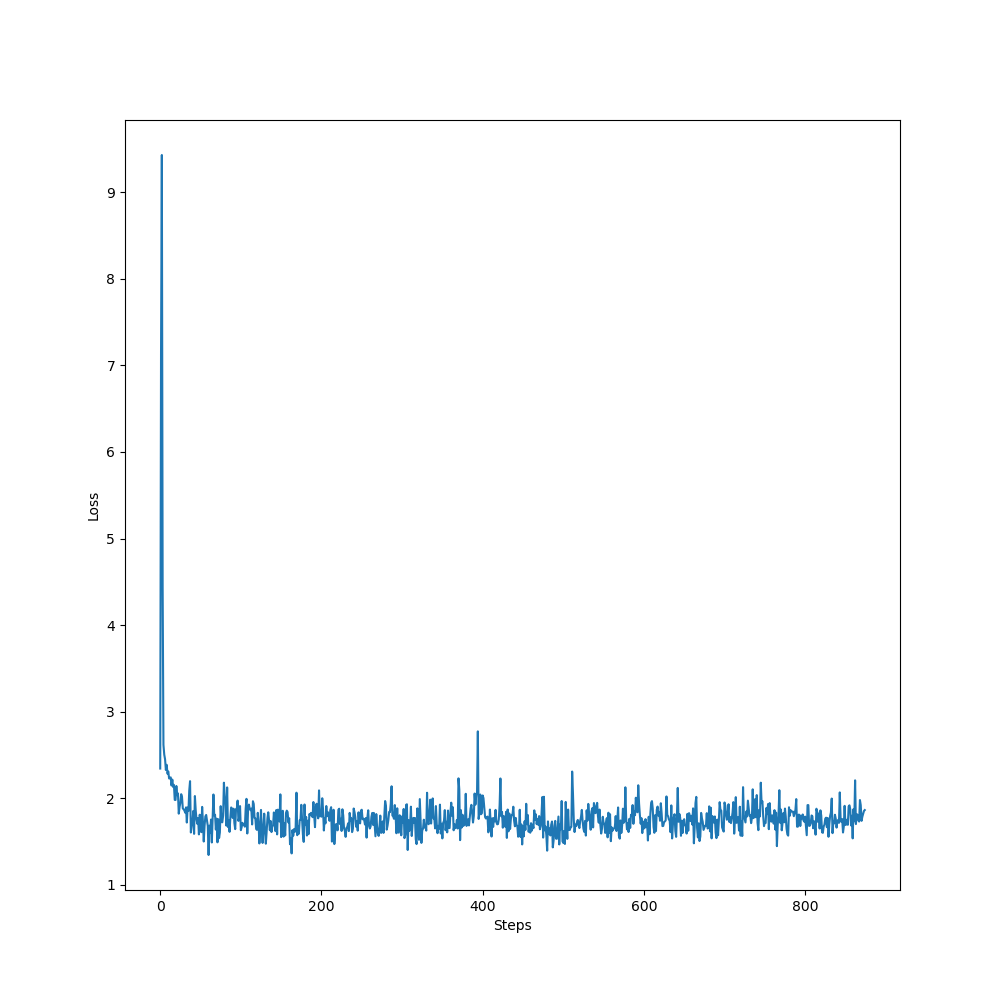
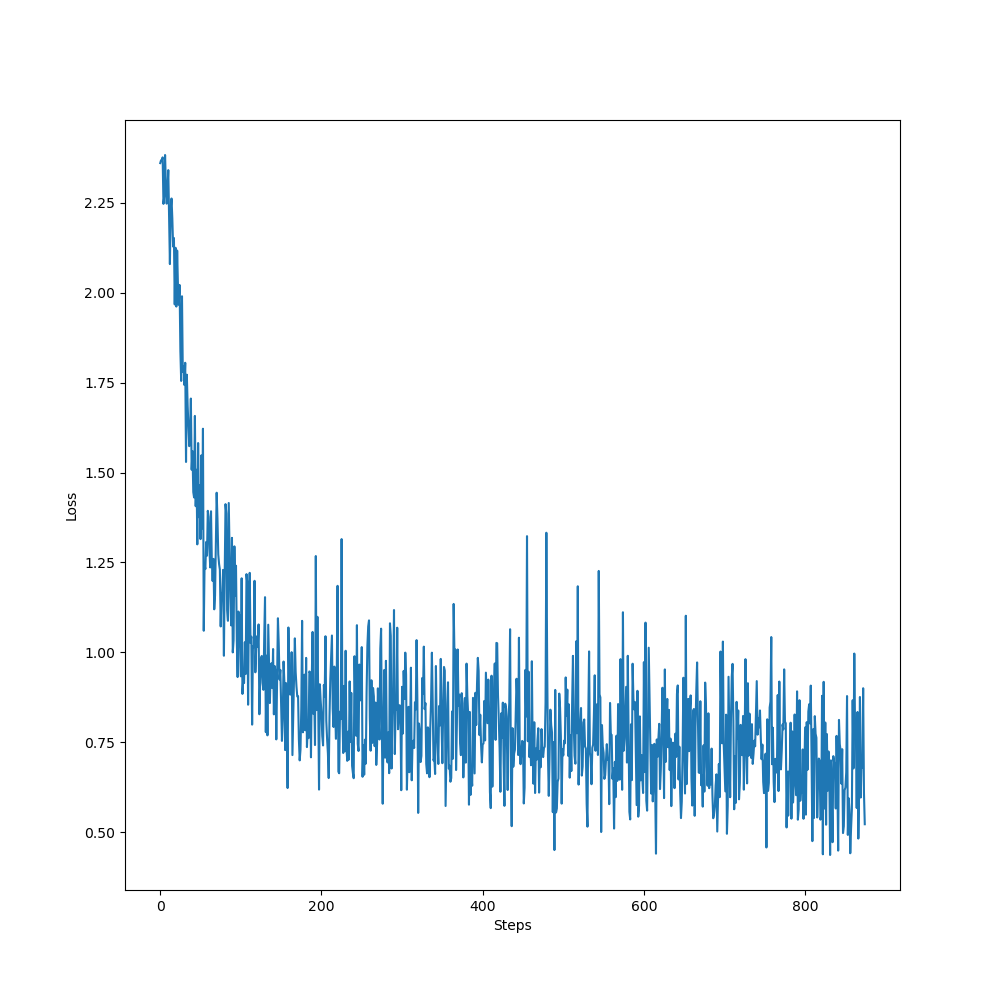
docker + configs

diff --git a/cookie/train_model.py b/cookie/train_model.py
@@ -1,11 +1,16 @@
+import logging
 import os
 
+import hydra
+from omegaconf import OmegaConf
 import matplotlib.pyplot as plt
 import torch
 from torch import nn, optim
 
-from data.data import get_dataloaders
+from data.get_data import get_dataloaders
 from models.model import Network, save_model
+
+log = logging.getLogger(__name__)
 
 
 def validation(model, testloader, criterion):
@@ -35,10 +40,34 @@ def validation(model, testloader, criterion):
     return test_loss, accuracy
 
 
-def train(model, trainloader, testloader, criterion, optimizer=None, epochs=5, print_every=40):
+# define hydra main entry point
+@hydra.main(config_path="../conf", config_name="config.yaml")
+def train(config):
     """Train model."""
-    if optimizer is None:
-        optimizer = torch.optim.Adam(model.parameters(), lr=1e-2)
+    # configureation
+    print(f"configuration: \n {OmegaConf.to_yaml(config)}")
+    #hparams = config.experiment
+    h_model = config.model
+    h_training = config.training
+    # model specific
+
+    model = Network(h_model.n_input, h_model.n_output, h_model.hidden_layers)
+
+    # training specific
+    print_every = h_training.print_every
+    seed = h_training.seed
+    torch.manual_seed(seed)
+    epochs = h_training.epochs
+    lr = h_training.lr
+
+    # initialize
+    criterion = nn.NLLLoss()
+    optimizer = optim.Adam(model.parameters(), lr=lr)
+
+    repo_path = os.getcwd().split("cookie")[0] + "cookie"
+    processed_data_path = repo_path + os.sep + h_training.dataset_path
+    trainloader, valloader = get_dataloaders(processed_data_path)
+    
     steps = 0
     running_loss = 0
     loss_list = []
@@ -68,13 +97,18 @@ def train(model, trainloader, testloader, criterion, optimizer=None, epochs=5, p
 
                 # Turn off gradients for validation, will speed up inference
                 with torch.no_grad():
-                    test_loss, accuracy = validation(model, testloader, criterion)
+                    test_loss, accuracy = validation(model, valloader, criterion)
 
-                print(
-                    "Epoch: {}/{}.. ".format(e + 1, epochs),
-                    "Training Loss: {:.3f}.. ".format(running_loss / print_every),
-                    "Test Loss: {:.3f}.. ".format(test_loss / len(testloader)),
-                    "Test Accuracy: {:.3f}".format(accuracy / len(testloader)),
+                #log.info(
+                #    "Epoch: {}/{}.. ".format(e + 1, epochs),
+                #    "Training Loss: {:.3f}.. ".format(running_loss / print_every),
+                #    "Test Loss: {:.3f}.. ".format(test_loss / len(valloader)),
+                #    "Test Accuracy: {:.3f}".format(accuracy / len(valloader)),
+                #)
+                log.info(
+                    "Epoch: {}/{}.. Training Loss: {:.3f}.. Test Loss: {:.3f}.. Test Accuracy: {:.3f}".format(
+                        e + 1, epochs, running_loss / print_every, test_loss / len(valloader), accuracy / len(valloader)
+                    )
                 )
 
                 running_loss = 0
@@ -90,18 +124,13 @@ def train(model, trainloader, testloader, criterion, optimizer=None, epochs=5, p
     plt.plot(loss_list)
     plt.xlabel("Steps")
     plt.ylabel("Loss")
-    plt.savefig(os.getcwd() + "/reports/figures/loss.png")
+    plt.savefig(repo_path + "/reports/figures/loss.png")
 
+
+    save_path = repo_path + "/models/trained_model.pth"
+    save_model(model, save_path)
 
 if __name__ == "__main__":
-    model = Network(784, 10, [512, 256, 128])
-    criterion = nn.NLLLoss()
-    optimizer = optim.Adam(model.parameters(), lr=0.001)
 
-    processed_data_path = os.getcwd() + os.sep + "data/processed/processed_data.pt"
-    trainloader, valloader = get_dataloaders(processed_data_path)
+    train()
 
-    train(model, trainloader, valloader, criterion, optimizer=None, epochs=1, print_every=40)
-
-    save_path = "models/trained_model.pth"
-    save_model(model, save_path)

diff --git a/README.md b/README.md
@@ -3,6 +3,10 @@
 testing cookie cutter.
 Template: https://github.com/SkafteNicki/mlops_template
 
+Reproducibility: the scientific method
+
+> Observe -> Question -> Hypotheses -> Experiment -> Conclude -> Result -> Observe -> ...
+
 
 ## Setup
 
@@ -138,7 +142,7 @@ started with Machine Learning Operations (MLOps).
 
 ---
 
-## My notes
+# My notes
 
 
 
@@ -162,19 +166,18 @@ To save the current environment into a YAML file, you can use the `conda env exp
 
 ### requirements.txt
 
-1. **Navigate to your project directory:**
+Exhaustive list based on environment:
 
-   Open a terminal or command prompt and navigate to the root directory of your Python project.
+`pip list --format=freeze > requirements.txt`
 
-**Run `pipreqs`:**
+*remove end string from torch and torchvision and torch==2.0.1*
 
-   Once you're in the project directory, run the following command:
 
-   ```bash
-   pipreqs .
-   ```
+or minimalistic list based on directory:
 
-   This command tells `pipreqs` to scan the current directory (`.`) for Python files and generate a `requirements.txt` file.
+`pip install pipreqs`
+
+*Compatibility check: https://pytorch.org/get-started/previous-versions/*
 
 
 ### Ruff
@@ -217,5 +220,54 @@ If you've tagged a release in both Git and DVC:
    ```bash
    dvc checkout -rev <tag_name>
    ```
+
+
+### Docker
+
+`--name {container_name}`
+
+#### Training
+
+
+Build image:
+```bash
+docker build -f dockerfiles/train_model.dockerfile . -t train_model:latest
+```
+
+Train:
+```bash
+docker run --name experiment1 \
+   -v $(pwd)/data/processed:/data/processed/ \
+   -v $(pwd)/models:/models/ \
+   train_model:latest
+```
+
+Transfer files from container to local:
+```bash
+docker cp experiment1:/models/trained_model.pth $(pwd)/models/trained_model.pth
+```
+
+
+#### Predicting
+
+Build image:
+```bash
+docker build -f dockerfiles/predict_model.dockerfile . -t predict_model:latest
+```
+
+Run prediction script:
+```bash
+docker run --name predict --rm \
+   -v $(pwd)/data/example_images:/data/example_images \
+   -v $(pwd)/models:/models \
+   predict_model:latest \
+   /models/trained_model.pth \
+   /data/example_images
+```
+
+Transfer files:
+```bash
+docker cp experiment1:/reports/figures/predictions.txt $(pwd)/reports/figures/predictions.txt
+```
 
 
